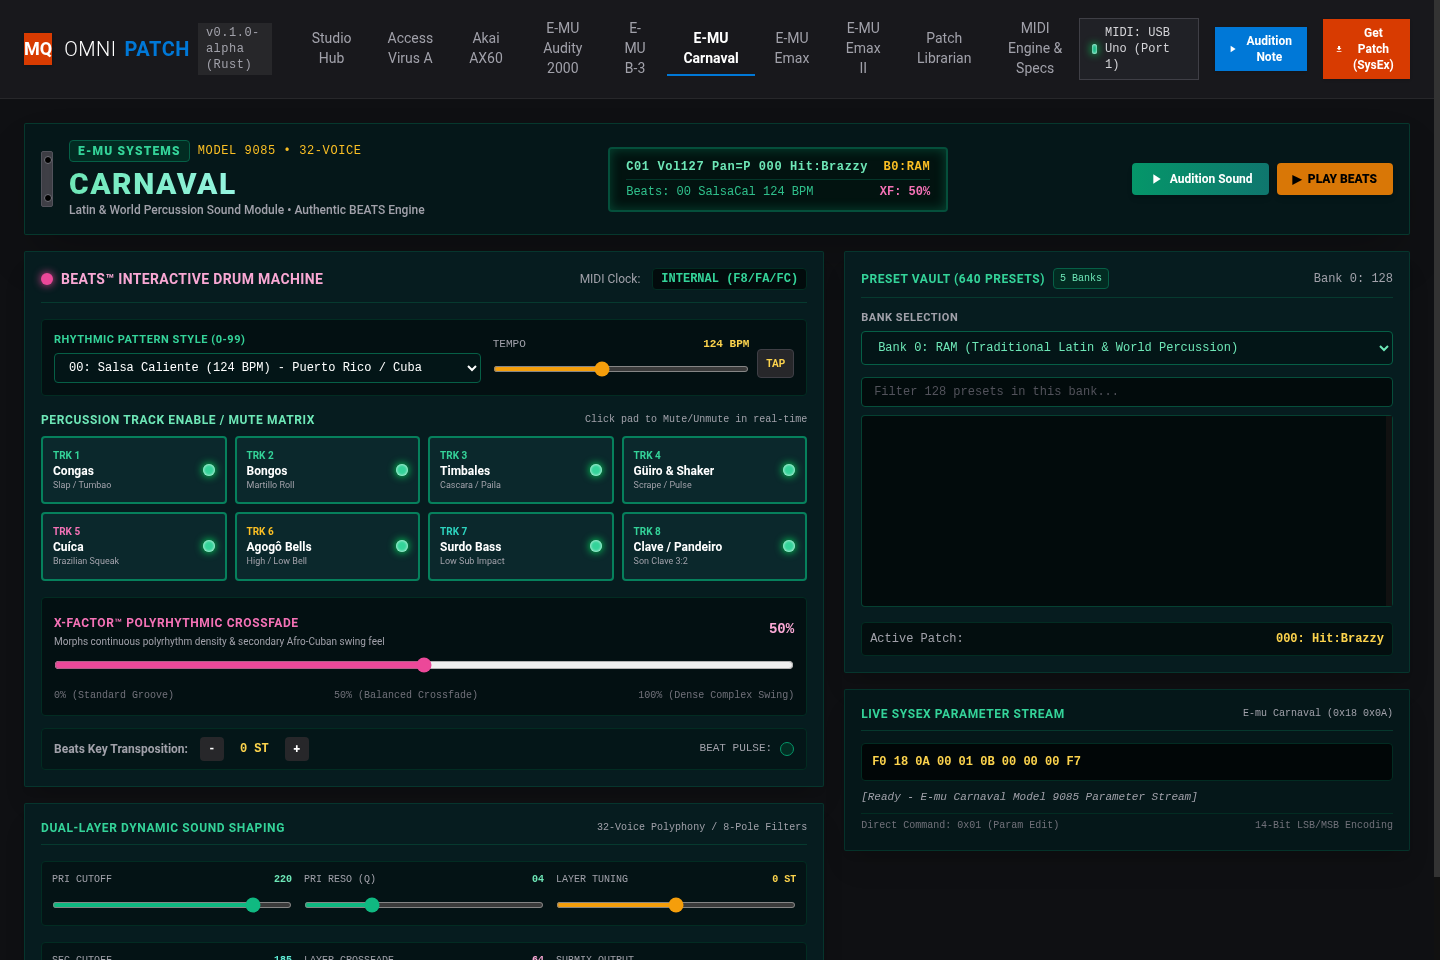
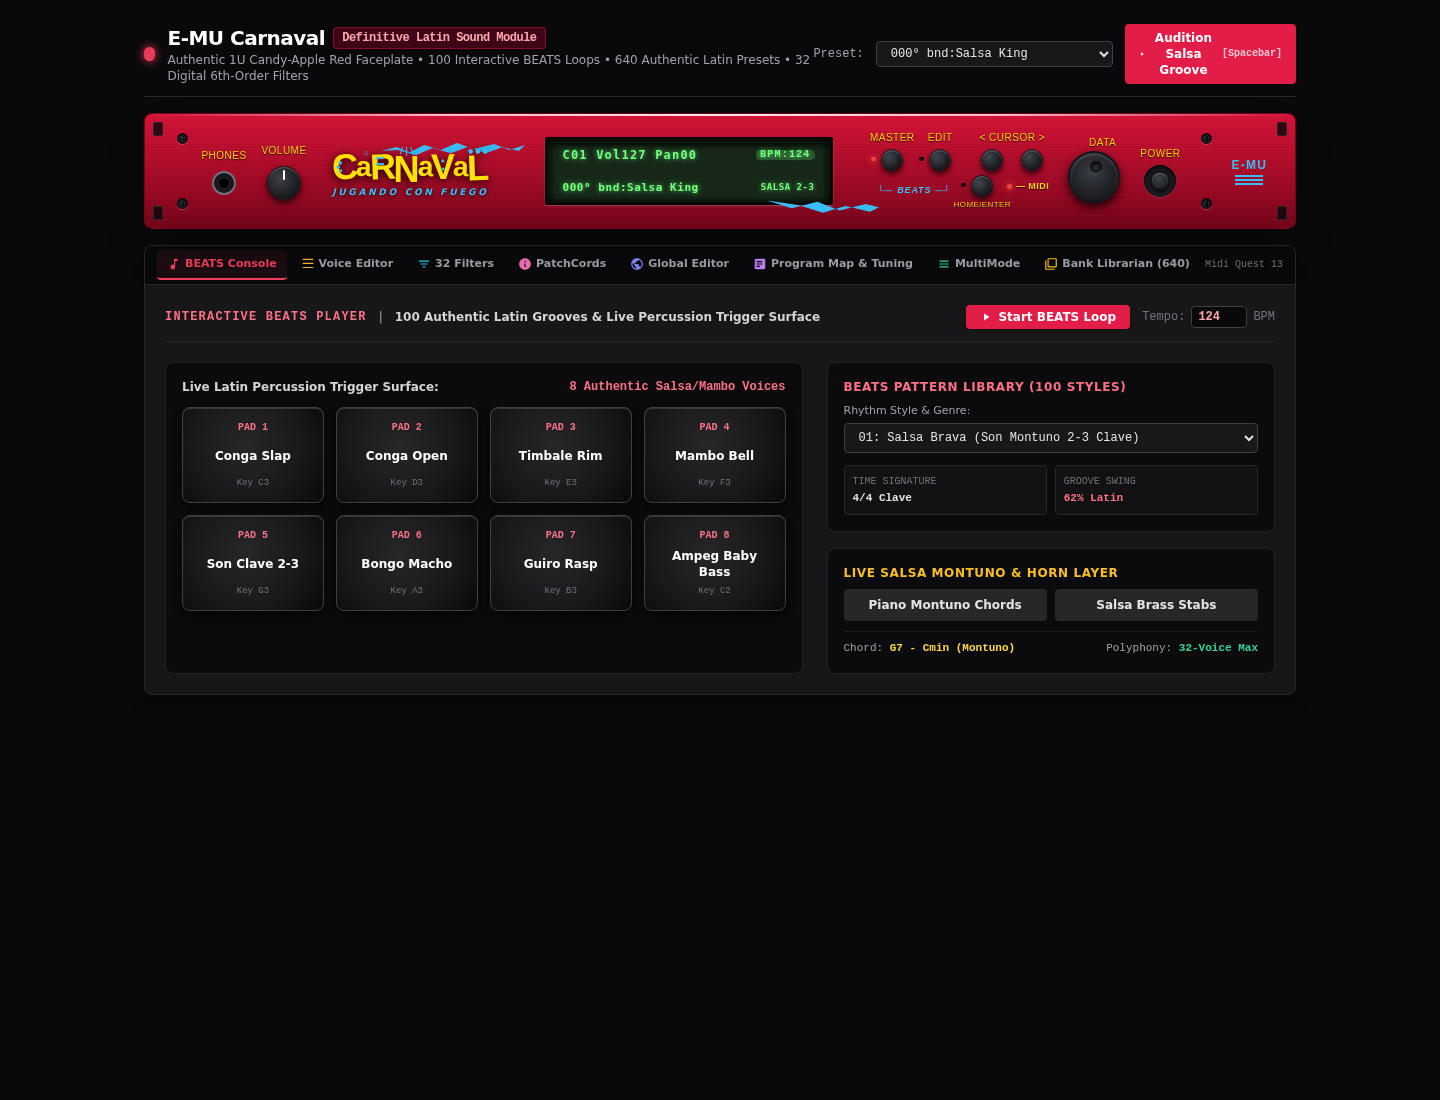
docs(readme): update synthesizer profiles, hardware specs, and interactive preview links

diff --git a/README.md b/README.md
@@ -31,12 +31,12 @@ Inspired by Sound Quest's **Midi Quest 13**, **OmniPatch** combines a clean, fas
 | **E-MU Carnaval** | 32-Voice Latin & World Percussion | 24 | 640 | BEATS interactive drum machine, X-Factor polyrhythmic groove crossfade, 5 Banks |
 | **E-MU Emax** | 12-Bit Analog VCF Sampler | 24 | 72 | SSM2047 24dB/oct resonant analog filters, dual AHDSR envs, dual voice stack, MIDI SDS |
 | **E-MU Emax II** | 16-Bit Stereo Workstation | 24 | 80 | 32-voice stereo sampling, digital resonant 4-pole VCF, Spectrum Interpolation, 4-layer stack |
-| **E-MU Xtreme Lead-1** | 64-Voice Dance & Techno Synth | 14 | 512 | Electric yellow chassis, black knobs & buttons, 50 Z-Plane filters, 16-track SuperBEATS |
-| **E-MU XL-7** | 128-Voice Desktop Workstation | 18 | 512 | Electric yellow console, 16 black rubber pads, 16 black knobs, 16-track sequencer (384 PPQN) |
-| **E-MU XK-6** | 61-Key Dance Performance Keyboard | 10 | 512 | Grey chassis with electric yellow control section, black buttons/knobs, 61 synth-action keys, SuperBEATS |
-| **E-MU Virtuoso 2000** | 128-Voice Virtual Orchestra | 10 | 512 | Light silver-grey 1U faceplate, black buttons, 64MB Orchestral Sessions Vol 1 & 2 ROMs, 50 Z-Plane filters |
-| **E-MU Vintage Pro** | 128-Voice Vintage Workstation | 10 | 512 | Two-tone Rhodes faceplate (satin black top / brushed grey bottom), fluted knobs, Rhodes/Moog/Prophet |
-| **E-MU Vintage Keys** | 32-Voice Vintage Keyboard Module | 10 | 512 | Matte black 1990s 1U chassis, green E-mu logo, retro 2x16 green LCD, classic SysEx ID 0x04 |
+| **E-MU Xtreme Lead-1** | 64-Voice Dance & Techno Synth | 14 | 512 | Electric yellow 1U chassis, black knobs & tactile buttons, 50 Z-Plane filters, 16-track SuperBEATS (Model ID 0x0F) |
+| **E-MU XL-7** | 128-Voice Desktop Workstation | 18 | 512 | Electric yellow desktop command station, 16 velocity pads, 16 knobs, 16-track sequencer (384 PPQN) |
+| **E-MU XK-6** | 61-Key Dance Performance Keyboard | 10 | 512 | Anthracite & electric yellow 61-key performance keyboard, 61 synth-action keys, SuperBEATS interactive engine |
+| **E-MU Virtuoso 2000** | 128-Voice Virtual Orchestra | 10 | 512 | Light silver-grey 1U faceplate, unbroken continuous navy wave line, black tactile buttons, 64MB Orchestral Sessions Vol 1 & 2 ROMs, 50 Z-Plane filters, 2x24 green LCD (Model ID 0x0D) |
+| **E-MU Vintage Pro** | 128-Voice Vintage Workstation | 10 | 512 | Two-tone pewter & black anodized faceplate with silver hex bolts, 5 spun-aluminum vintage knobs, 64MB Vintage Collection ROM, 9 Midi Quest 13 editors (Model ID 0x11) |
+| **E-MU Vintage Keys** | 32-Voice Vintage Keyboard Module | 10 | 512 | 1993 original 1U matte dark charcoal chassis, 11x5 cyan dot matrix, 2x16 green LCD, 5-button tactile matrix, stepped DATA wheel, red E•MU SYSTEMS logo (Model ID 0x0B) |
 | **E-MU Proteus 1000** | 64-Voice 1U Sound Module | 7 | 512 | Matte black 1U faceplate, high-contrast white knobs and buttons, Composer sound set |
 | **E-MU Proteus 2000** | 128-Voice Flagship Sound Module | 8 | 1,024 | Sleek black 1U chassis, greyish-white knobs, 32MB Composer ROM, 4 ROM expansion slots |
 | **E-MU Proteus 2500** | 128-Voice Command Station Console | 8 | 1,024 | Industrial grey desktop console, blue accents, 16 velocity pads, 16 knobs, multi-channel sequencer |
@@ -232,9 +232,24 @@ cargo build --release
 ./target/release/omnipatch librarian search "Trancer" -b library.db
 ```
 
-### Interactive UI Preview
+### Interactive UI & Hardware Previews
 
-Open `preview/index.html` in any modern web browser to interact with the **Windows 8 Metro UI Studio Hub** and authentic hardware panels for Access Virus A, Akai AX60, E-MU Audity 2000, E-MU B-3, E-MU Carnaval, E-MU Emax, E-MU Emax II, E-MU Xtreme Lead-1, E-MU XL-7 Command Station, E-MU XK-6 Performance Keyboard, E-MU Virtuoso 2000, E-MU Vintage Pro, and E-MU Vintage Keys!
+Open any of the following interactive prototypes in any modern web browser to test reactive controls, parameter editing, Web Audio sound playback, and real-time SysEx output:
+
+| Synthesizer | Preview File | Highlights |
+| :--- | :--- | :--- |
+| **OmniPatch Studio Hub** | [`preview/index.html`](preview/index.html) | Windows 8 Metro UI live tile dashboard & rack router |
+| **E-MU Vintage Keys (1993)** | [`preview/vintage_keys.html`](preview/vintage_keys.html) | 1U matte steel, 11x5 cyan dot matrix, 2x16 LCD, 8 keyboard engines, Model ID `0x0B` |
+| **E-MU Vintage Pro (2002)** | [`preview/vintage_pro.html`](preview/vintage_pro.html) | Two-tone pewter faceplate, 5 spun-aluminum knobs, 9 Midi Quest 13 editors, Model ID `0x11` |
+| **E-MU Virtuoso 2000** | [`preview/virtuoso_2000.html`](preview/virtuoso_2000.html) | Silver 1U rack, unbroken continuous navy wave line, 4-layer orchestral engine, Model ID `0x0D` |
+| **E-MU XK-6** | [`preview/xk6.html`](preview/xk6.html) | 61-key performance synthesizer, SuperBEATS groove engine, Model ID `0x0F` |
+| **E-MU XL-7 Command Station** | [`preview/xl7.html`](preview/xl7.html) | Electric yellow tabletop console, 16 rubber pads, 16 knobs, 16-track sequencer |
+| **E-MU Xtreme Lead-1** | [`preview/xl1.html`](preview/xl1.html) | Electric yellow 1U rack, 50 Z-Plane filters, techno/dance soundboard, Model ID `0x0F` |
+| **E-MU Carnaval** | [`preview/carnaval.html`](preview/carnaval.html) | Latin & world percussion, interactive BEATS drum machine, Model ID `0x08` |
+| **E-MU B-3** | [`preview/emu_b3.html`](preview/emu_b3.html) | Parchment faceplate, 9 Hammond drawbars, Leslie 122 rotary simulation, Model ID `0x0E` |
+| **E-MU Audity 2000 (v2)** | [`preview/audity_2000.html`](preview/audity_2000.html) | Metallic light blue faceplate, 64-voice modular rack, 4 sub-editors, Model ID `0x0C` |
+| **Access Virus A** | [`preview/virus_a.html`](preview/virus_a.html) | Red anodized chassis, wood side cheeks, DSP56303 virtual analog engine |
+| **Akai AX60** | [`preview/ax60.html`](preview/ax60.html) | Curtis CEM3394 analog sliders, Tauntek CC mapping, sampler input routing |
 
 ---
 
